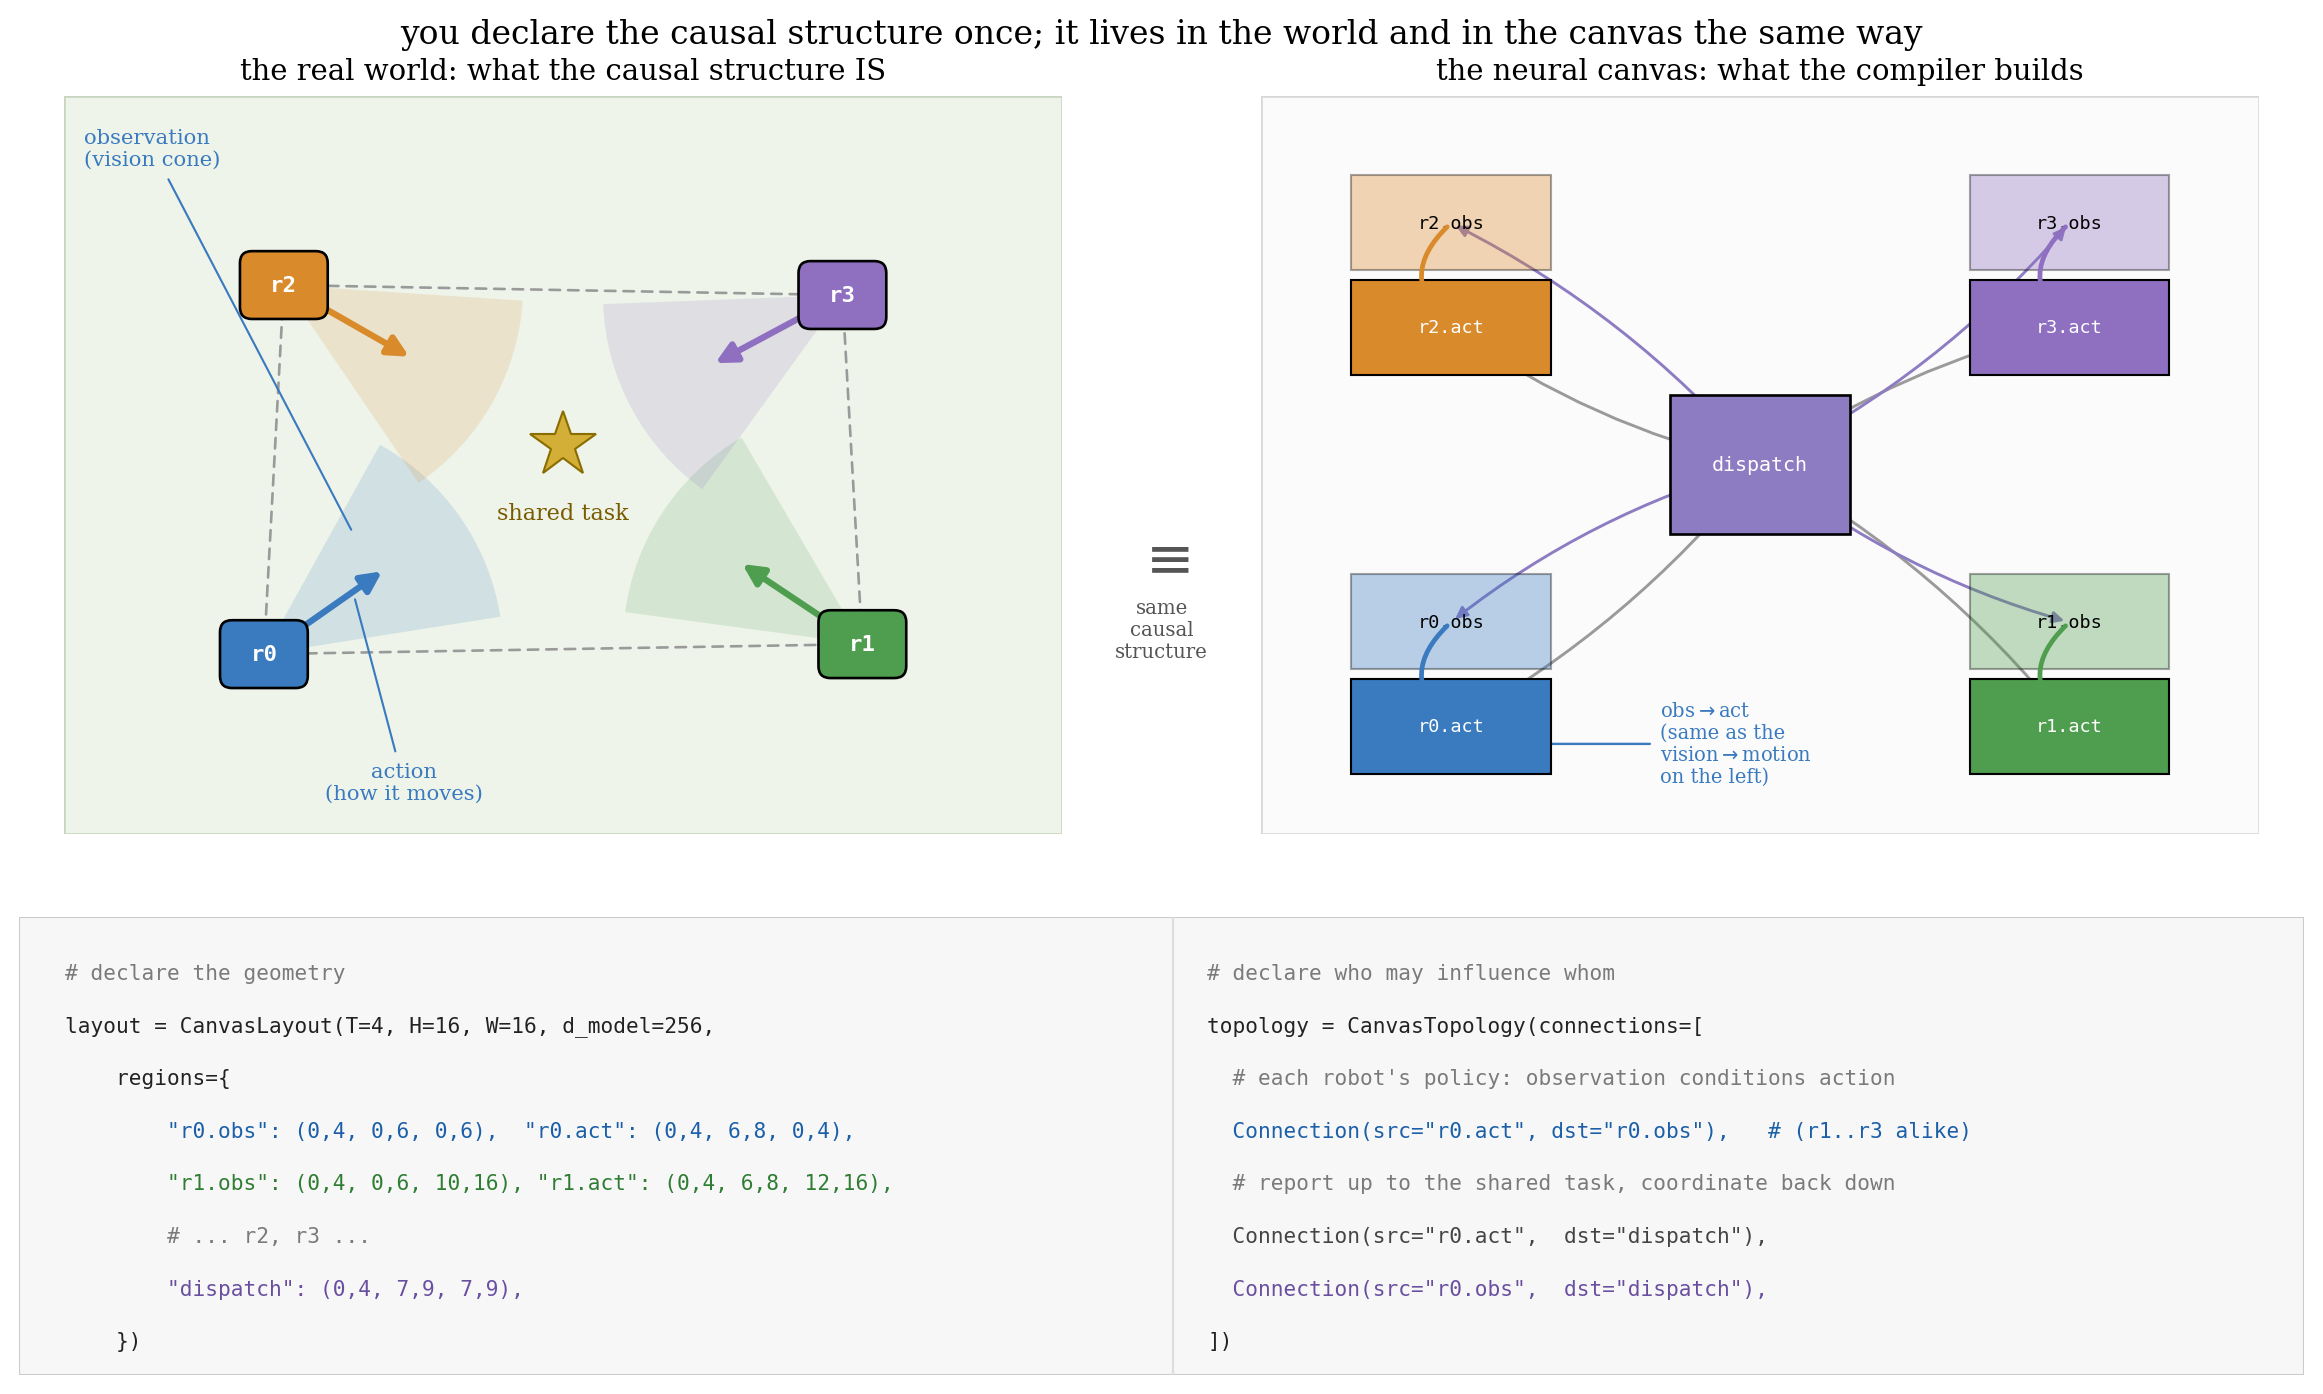
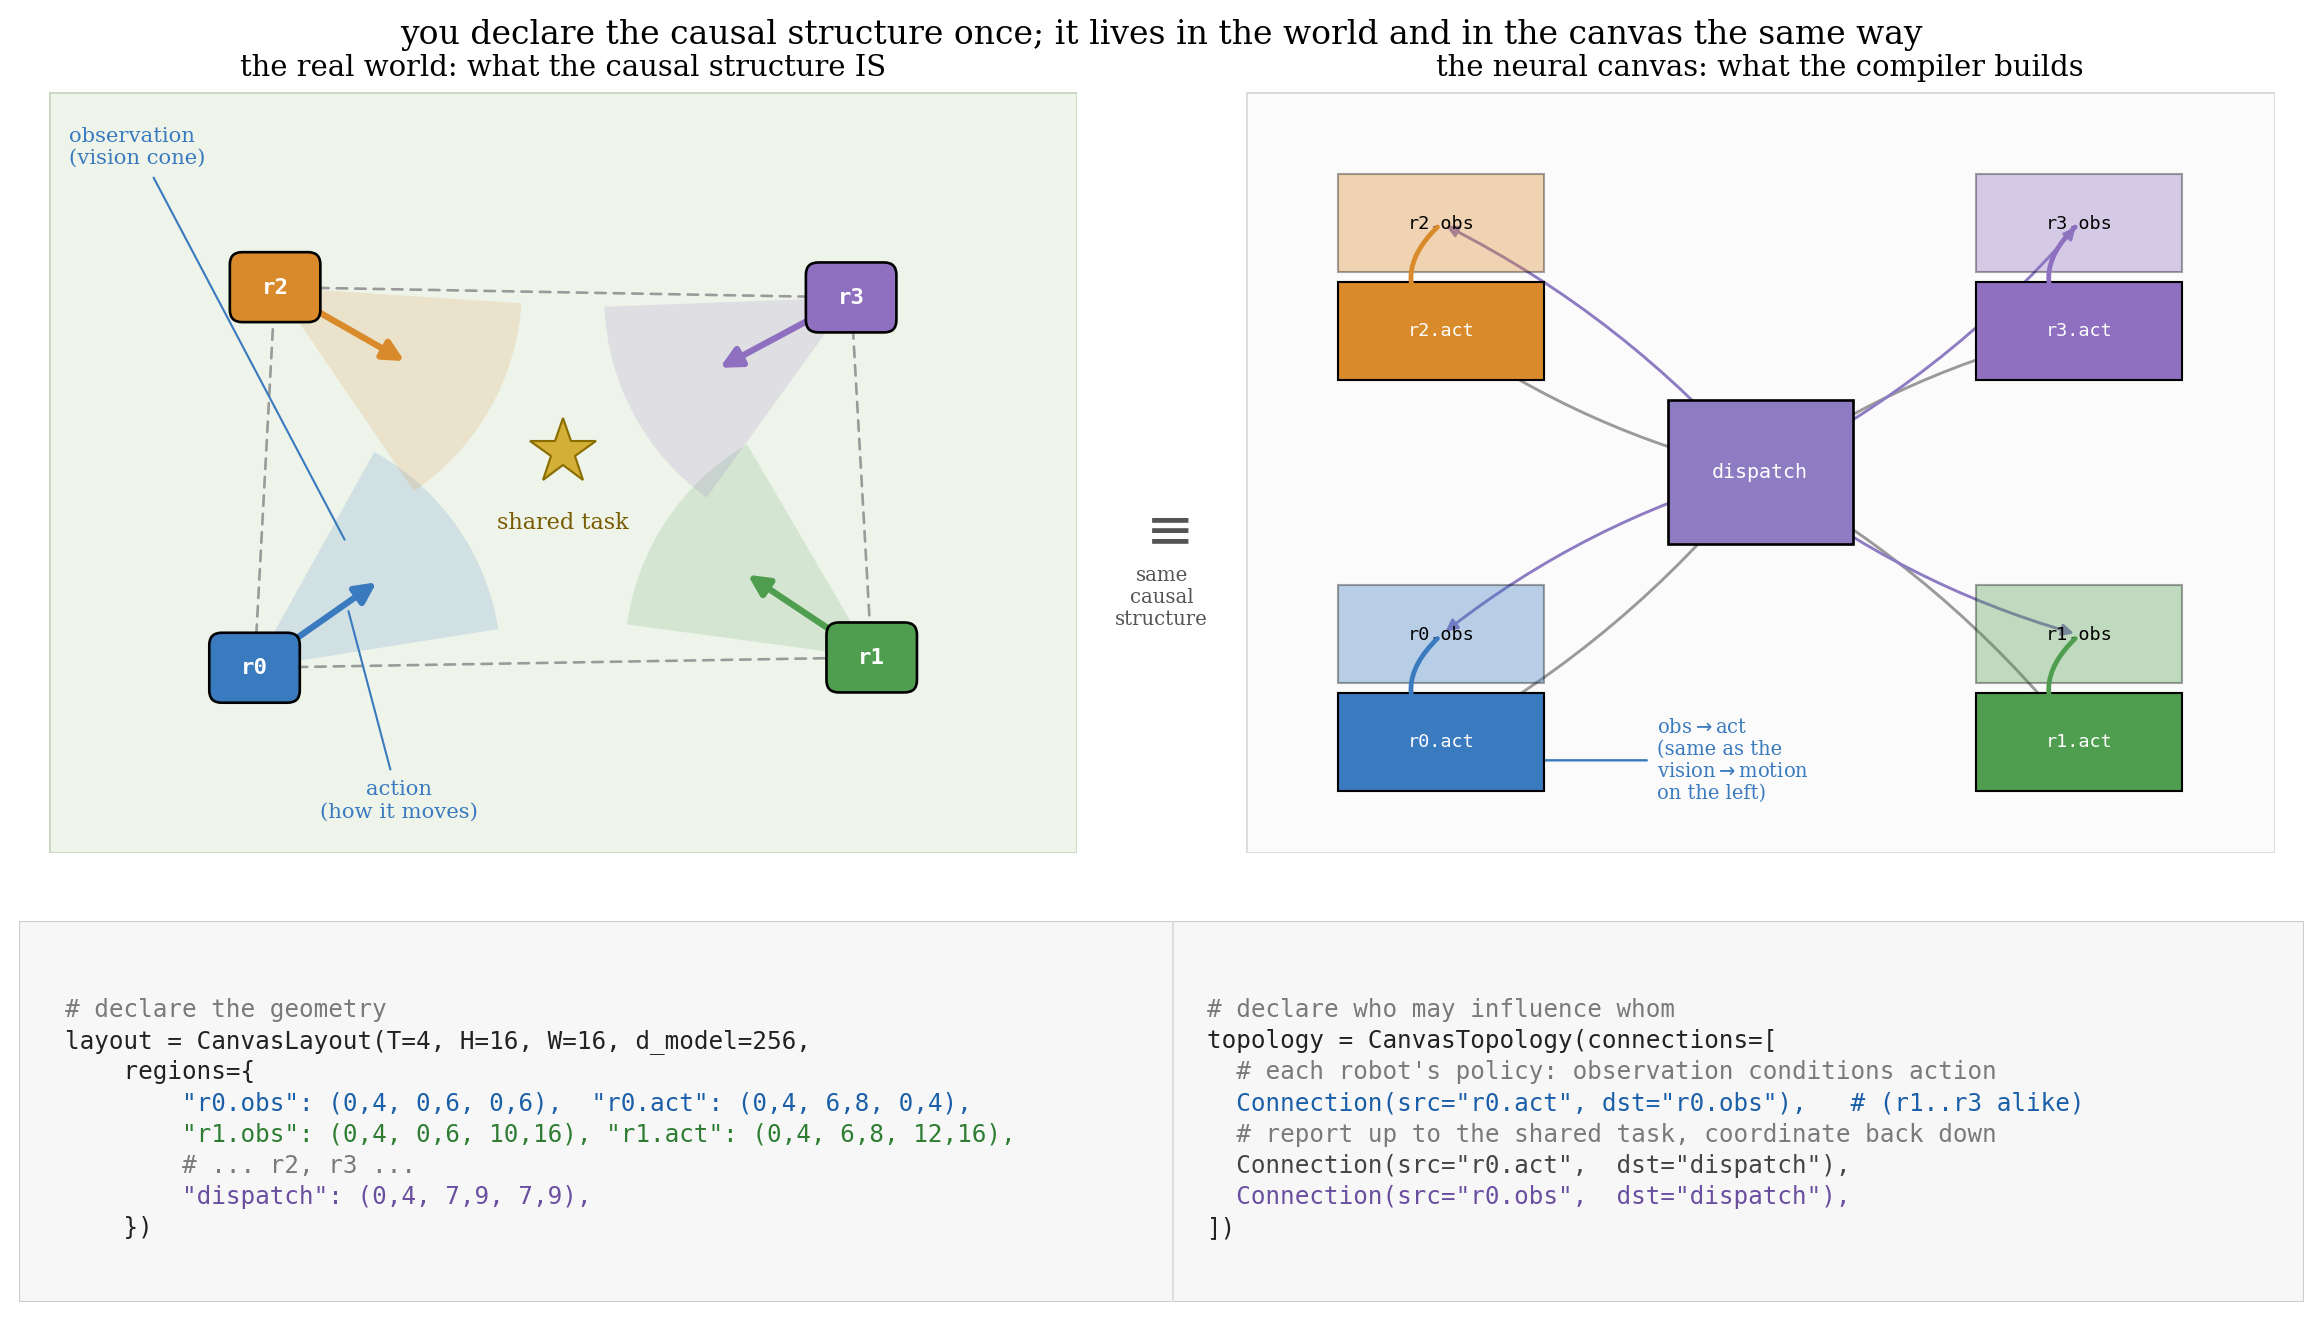
Thread images: translucent volume, results chart, cut weak assets
- Spinning latent volume (posts 1/9): back to translucent (alpha 0.42) so
  the back faces render through the front ones, not just the near hull.
- Post 7: replace the badly-cropped Table 2 screenshot and the meaningless
  looped-attention block diagram with one clean bar chart (dataviz method)
  carrying the real walk-away — frozen 350K params, lowest action loss,
  33x fewer trainable params than unfrozen.
- Post 8: drop 'paper first page again' (bad taste to repeat the hero) and
  the static minecraft frame (says nothing about the canvas; parked the
  idea of an annotated 'canvas thinking' video for that slot).
- real_vs_neural: tighten the code-block line spacing (was airy).

diff --git a/paper/make_thread_assets.py b/paper/make_thread_assets.py
@@ -57,21 +57,73 @@ def results_table():
     print("!! table not found")
 
 
+def results_chart():
+    # The walk-away receipt: at 3 loops, the FROZEN 350K-param model has the
+    # lowest action loss — fewer trainable params than either alternative, yet
+    # better actions. Single series (action loss); winner highlighted; params
+    # annotated; direct value labels; recessive axis.
+    labels = ["frozen\n350K params", "half-frozen\n3.7M params",
+              "unfrozen\n11.7M params"]
+    loss = [0.073, 0.107, 0.088]
+    win = 0
+    ink, muted = "#2a2f36", "#6b7580"
+    bar_ctx, bar_win = "#9aa7b0", "#1f9e7a"
+
+    fig, ax = plt.subplots(figsize=(7.2, 4.5))
+    xs = np.arange(3)
+    for i in range(3):
+        ax.bar(xs[i], loss[i], width=0.62,
+               color=bar_win if i == win else bar_ctx, zorder=3)
+        ax.text(xs[i], loss[i] + 0.0022, f"{loss[i]:.3f}", ha="center",
+                va="bottom", fontsize=12.5,
+                fontweight="bold" if i == win else "normal",
+                color=ink if i == win else muted)
+    ax.set_xticks(xs)
+    ax.set_xticklabels(labels, fontsize=10.5, color=ink)
+    ax.set_ylim(0, 0.135)
+    ax.set_ylabel("action loss  (lower is better)", fontsize=10.5, color=ink)
+    ax.set_yticks([0, 0.05, 0.10])
+    ax.tick_params(axis="y", labelcolor=muted, length=0)
+    ax.tick_params(axis="x", length=0)
+    for s in ("top", "right", "left"):
+        ax.spines[s].set_visible(False)
+    ax.spines["bottom"].set_color("#cfd4d9")
+    ax.grid(axis="y", color="#eef1f3", lw=1.0, zorder=0)
+    ax.set_axisbelow(True)
+    # headline callout — land the arrow on the winner bar's left shoulder so it
+    # never crosses the value label
+    ax.annotate("33× fewer trainable params\nthan unfrozen — and the "
+                "lowest loss", xy=(win - 0.31, loss[win] - 0.004),
+                xytext=(0.55, 0.129), fontsize=10.5, color=bar_win,
+                fontweight="bold", va="top", ha="left",
+                arrowprops=dict(arrowstyle="-|>", color=bar_win, lw=1.6,
+                                connectionstyle="arc3,rad=0.25"))
+    ax.set_title("looped attention: recurrence beats scale\n"
+                 "(3 loops on a frozen CogVideoX-2B backbone; "
+                 "1.73× parameter efficiency, p<0.001)",
+                 fontsize=11.5, color=ink, pad=10)
+    fig.tight_layout()
+    fig.savefig(os.path.join(OUT, "results_chart.png"),
+                bbox_inches="tight", facecolor="white", dpi=200)
+    plt.close(fig)
+    print("wrote results_chart.png")
+
+
 def rotating_gif():
-    # Only the allocated regions are filled — solid, opaque blocks. Filling
-    # the whole volume culls interior faces and hides everything but the near
-    # hull, so back faces never render. Solid blocks + a wireframe canvas box
-    # let matplotlib depth-sort every face, front and back.
+    # Only the allocated regions are filled (as isolated blocks, so no interior
+    # faces get culled), and they're TRANSLUCENT — with alpha, every face of a
+    # block renders and you see the back faces through the front ones. A
+    # wireframe box marks the full (T,W,H) canvas extent.
     filled = np.zeros((T, W, H), dtype=bool)
     colors = np.zeros((T, W, H, 4))
     for name, ((t0, t1, h0, h1, w0, w1), c) in REGIONS.items():
         filled[t0:t1, w0:w1, H - h1:H - h0] = True
-        colors[t0:t1, w0:w1, H - h1:H - h0] = matplotlib.colors.to_rgba(c, 1.0)
+        colors[t0:t1, w0:w1, H - h1:H - h0] = matplotlib.colors.to_rgba(c, 0.42)
 
     fig = plt.figure(figsize=(5.4, 4.6))
     ax = fig.add_subplot(111, projection="3d")
     ax.voxels(filled, facecolors=colors,
-              edgecolors=(0.2, 0.2, 0.2, 0.55), linewidth=0.35, shade=True)
+              edgecolors=(0.15, 0.15, 0.15, 0.5), linewidth=0.4, shade=False)
 
     # wireframe of the full (T, W, H) canvas extent so the empty space reads
     corners = [(0, 0, 0), (T, 0, 0), (T, W, 0), (0, W, 0),
@@ -656,9 +708,9 @@ def real_vs_neural():
     R = ["#3a7abf", "#4f9d4f", "#d98a2b", "#8e6fc0"]      # robot colors
     RL = [f"r{i}" for i in range(4)]
 
-    fig = plt.figure(figsize=(12.4, 7.4))
-    gs = fig.add_gridspec(2, 2, height_ratios=[1.0, 0.62],
-                          width_ratios=[1.0, 1.0], hspace=0.14, wspace=0.10,
+    fig = plt.figure(figsize=(12.4, 7.0))
+    gs = fig.add_gridspec(2, 2, height_ratios=[1.0, 0.5],
+                          width_ratios=[1.0, 1.0], hspace=0.12, wspace=0.10,
                           left=0.015, right=0.985, top=0.93, bottom=0.02)
     axW = fig.add_subplot(gs[0, 0])   # real world
     axN = fig.add_subplot(gs[0, 1])   # neural canvas
@@ -785,9 +837,11 @@ def real_vs_neural():
         ('  Connection(src="r0.obs",  dst="dispatch"),', "#6a4fa0"),
         ('])', "#222"),
     ]
+    # tight, code-like line spacing (was airy); block sits centered in the panel
+    dy, y0 = 0.082, 0.80
     for col, lines, x0 in ((0, left, 0.02), (1, right, 0.52)):
         for i, (txt, c) in enumerate(lines):
-            axC.text(x0, 0.90 - i * 0.115, txt, fontsize=8.0,
+            axC.text(x0, y0 - i * dy, txt, fontsize=9.2,
                      family="monospace", va="top", color=c)
     axC.axvline(0.505, color="#dddddd", lw=0.8)
 
@@ -810,8 +864,6 @@ def copies():
         # transfer_distance parked (needs the representation-stability caveat);
         # kept available for a possible interop follow-up thread.
         (os.path.join(fig, "transfer_distance.png"), "transfer_distance.png"),
-        (os.path.join(ass, "looped_attention.png"), "looped_attention.png"),
-        (os.path.join(exa, "08_world_model_minecraft.png"), "minecraft_world_model.png"),
         (os.path.join(exa, "09b_bci_tribe.png"), "bci_tribe.png"),
         (os.path.join(exa, "03_cartpole.png"), "cartpole.png"),
     ]:
@@ -824,7 +876,7 @@ def copies():
 
 if __name__ == "__main__":
     page1()
-    results_table()
+    results_chart()
     rotating_gif()
     attention_mask()
     math_card()

diff --git a/paper/thread.md b/paper/thread.md
@@ -170,17 +170,21 @@ All images live in `paper/thread_assets/`. Regenerate with `python3 paper/make_t
 >
 > and to be upfront about what the data does NOT yet show at this scale: no measurable iterative reasoning from looping (it's weight-sharing regularization), and just co-locating modalities on a flat canvas doesn't buy binding — structure has to be declared, not hoped for. which is kind of the whole point
 
-**images (2):**
+**images (1):** the walk-away receipt — recurrence beats scale
 
-| 1. Table 2 crop (loops × freeze grid) | 2. looped attention block diagram |
-|---|---|
-| ![results_table.png](thread_assets/results_table.png) | ![looped_attention.png](thread_assets/looped_attention.png) |
+![results_chart.png](thread_assets/results_chart.png)
 
-<!-- WHY the negative results stay in: pre-empting the "did you test whether it's just
-     regularization?" reply is worth more than a cleaner-looking post. The judo move
-     ("which is kind of the whole point") converts the null into the thesis — mirrors
-     the reframe we did in the paper §5. If engagement data later shows this post kills
-     the thread, the fallback is to merge the caveat sentence into post 9. -->
+<!-- REPLACED the badly-cropped Table 2 screenshot AND the looped-attention block
+     diagram (which communicated nothing) with one clean custom bar chart that carries
+     the actual walk-away: a frozen 350K-param model has the LOWEST action loss — 33×
+     fewer trainable params than the unfrozen 11.7M and still better. That's the receipt
+     readers should leave with, not a raw grid. -->
+<!-- WHY the negative results stay in the TEXT: pre-empting the "did you test whether it's
+     just regularization?" reply is worth more than a cleaner-looking post. The judo move
+     ("which is kind of the whole point") converts the null into the thesis — mirrors the
+     reframe in the paper §5. -->
+<!-- Chart built via the dataviz method: single series (action loss), one accessible hue
+     with the winner highlighted, direct value labels, recessive grid/axis. -->
 
 ---
 
@@ -195,19 +199,24 @@ All images live in `paper/thread_assets/`. Regenerate with `python3 paper/make_t
 >
 > apache 2.0, published under @commandagi
 
-**images (4):**
+**images (2):**
 
-| 1. cartpole | 2. minecraft world model |
+| 1. cartpole control (real gym env) | 2. BCI decoding on real TRIBE cortical predictions |
 |---|---|
-| ![cartpole.png](thread_assets/cartpole.png) | ![minecraft_world_model.png](thread_assets/minecraft_world_model.png) |
-| **3. BCI + TRIBE** | **4. paper first page again** |
-| ![bci_tribe.png](thread_assets/bci_tribe.png) | ![page1.png](thread_assets/page1.png) |
+| ![cartpole.png](thread_assets/cartpole.png) | ![bci_tribe.png](thread_assets/bci_tribe.png) |
 
-<!-- WHY: the links post doubles as an examples gallery — breadth (control, world models,
-     BCI) signals "this is a library, not a demo." page1 repeats so the paper is attached
-     at both ends of the thread for people who enter mid-thread. -->
-<!-- TODO before posting: paper link; confirm @commandagi is the real X handle;
-     consider a PyPI badge screenshot if the package page looks good by then. -->
+<!-- WHY: the links post doubles as a small examples gallery — two distinct domains
+     (control + neural decoding) signal "this is a library, not a one-trick demo." -->
+<!-- DROPPED "paper first page again" (page1) — repeating the same hero at both ends of
+     the thread is bad taste; the paper link in the text is enough. -->
+<!-- DROPPED minecraft_world_model.png — a static frame of a world-model demo says nothing
+     about the canvas. IDEA for a real replacement: an annotated video of the canvas
+     "thinking" (its region activations) with the input feed overlaid, so you can watch
+     the declared structure light up during rollout. We don't have that asset yet; it
+     needs a running model. Parked as the strongest possible image for this slot. -->
+<!-- NOTE: cartpole/bci_tribe are still repo demo art. Kept because they signal breadth
+     and weren't flagged, but they're candidates to swap for custom diagrams later. -->
+<!-- TODO before posting: paper link; confirm @commandagi is the real X handle. -->
 
 ---
 
